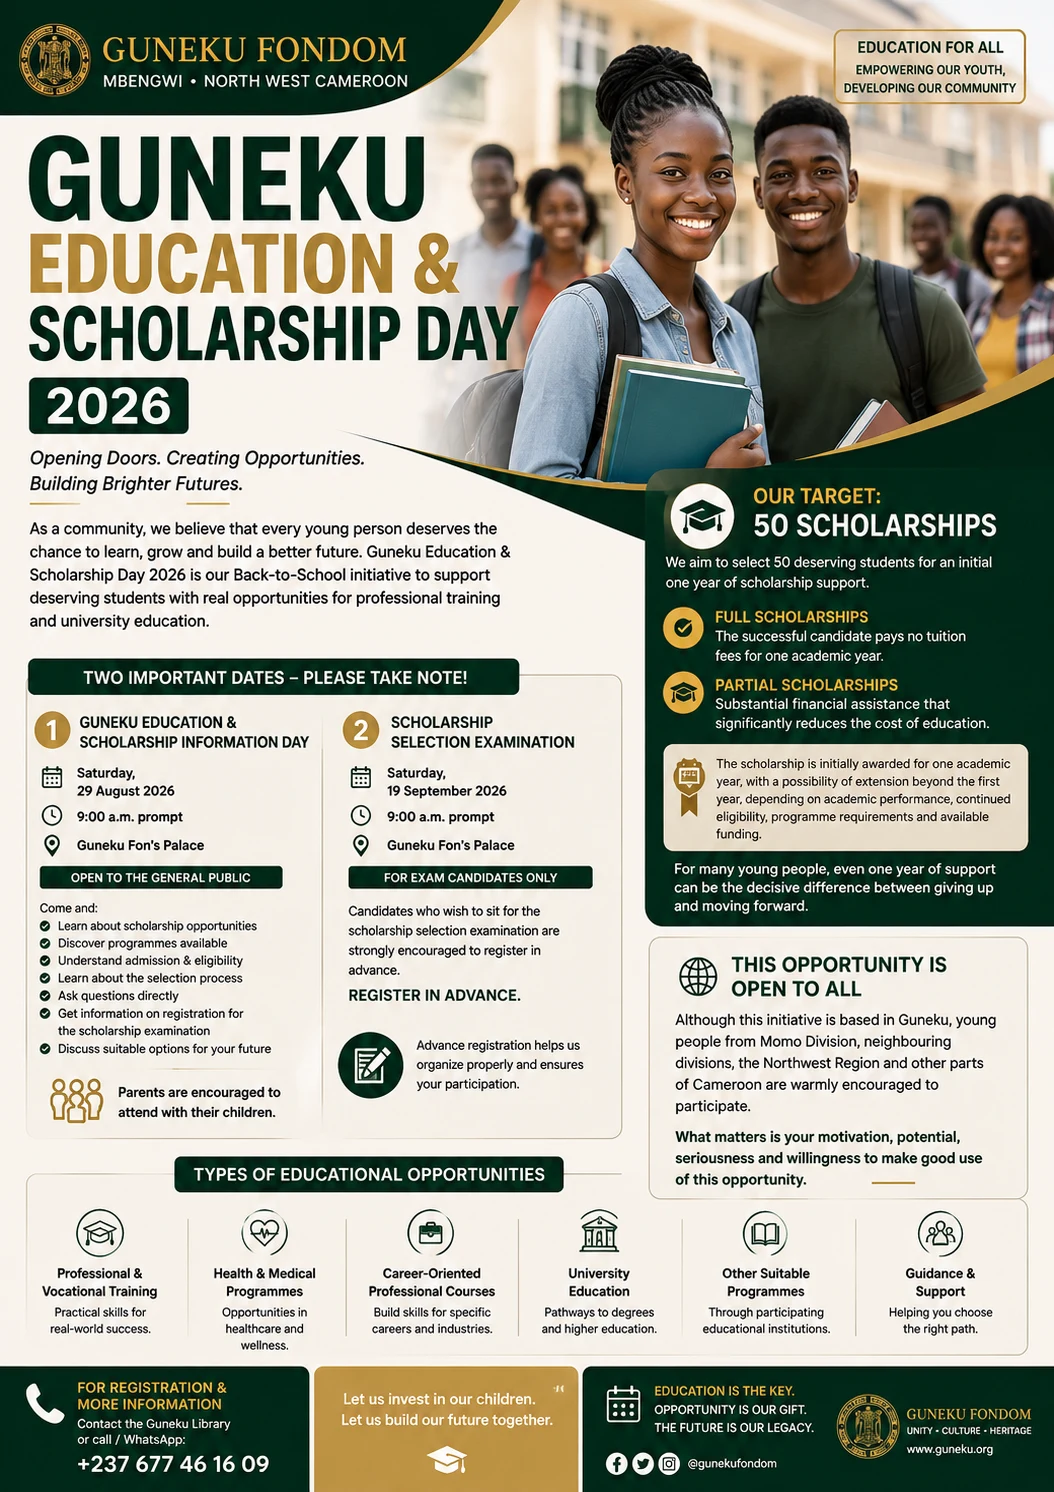
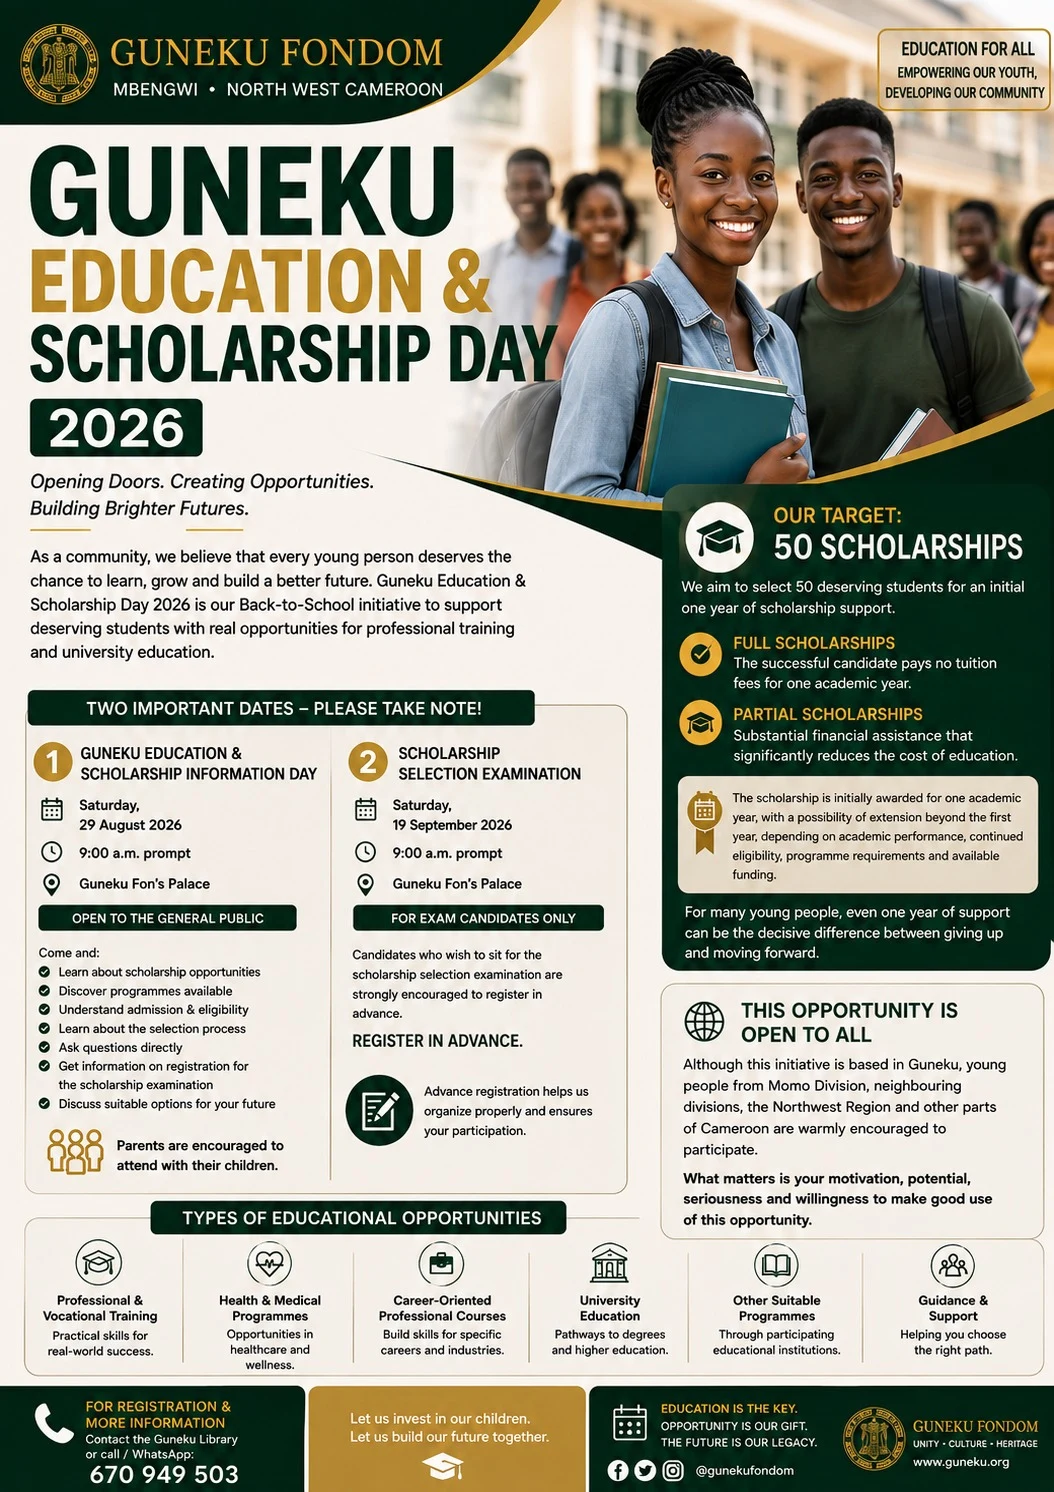
Swap in the corrected scholarship flyer; feature it on the front page
The new flyer prints the authoritative Guneku Library number 670 949 503, so
the discrepancy carried since the first publication is resolved.

- public/images/education/guneku-scholarship-2026.jpg is the supplied file,
  byte-identical (MD5 15c61f50c8fd0e78cda09113fe058a30), 1054x1492.
- Delivery copies at the same pixels and the same 0.7064 aspect: a WebP for
  the programme page, a 600px WebP thumbnail for the front page, and a
  1200x630 Open Graph card letterboxed so nothing is cropped.
- The superseded artwork printing +237 677 46 16 09 is deleted from the
  repository and now 404s.

The flyer appears on the front page inside the existing scholarship card,
above the existing text, wrapped in a link through to /education with an
aria-label and full alt text. No new component, no styling change.

Also withdraws a contradiction of my own making: the notices list still
advertised "Phase 3 membership open - share price moves to 5,000 FCFA", which
is precisely the pricing withdrawn in the previous commit as unconfirmed. The
notice is removed rather than reworded into a guess, and the Agro CIG
development row now states plainly that the current share price is not
published pending confirmation by the Delegate.

Verified: tsc clean, no new lint errors, build passes, the flyer resolves on
both pages, the link target confirmed in the DOM, and the superseded number
appears nowhere.

Claude-Session: https://claude.ai/code/session_018FyebiaU4CnJEak38XTarP

diff --git a/src/app/page.tsx b/src/app/page.tsx
@@ -119,7 +119,19 @@ export default function HomePage() {
           </div>
 
           {/* Scholarship — institutional feature, not a banner */}
-          <aside className="inst-card self-start p-5">
+          <aside className="inst-card self-start overflow-hidden">
+            {/* Flyer — front page, clickable through to the full programme */}
+            <Link href="/education" className="block no-underline" aria-label="Guneku Education & Scholarship Day 2026 — see the full programme">
+              <Image
+                src={programme.flyer.thumb}
+                alt="Guneku Education & Scholarship Day 2026 flyer. Information Day Saturday 29 August 2026 and Scholarship Selection Examination Saturday 19 September 2026, both 9:00 a.m. at the Guneku Fon's Palace. Target of 50 scholarships, full and partial."
+                width={600}
+                height={849}
+                sizes="(max-width: 1024px) 100vw, 32vw"
+                className="h-auto w-full"
+              />
+            </Link>
+            <div className="p-5">
             <p className="inst-tag">Education · Current programme</p>
             <h3 className="inst-h2 mt-1.5">{programme.name}</h3>
             <p className="inst-body mt-2">
@@ -141,6 +153,7 @@ export default function HomePage() {
               <Link href="/education#video" className="inst-link inline-flex items-center gap-1.5">
                 <PlayCircle className="h-4 w-4" aria-hidden /> Watch video
               </Link>
+            </div>
             </div>
           </aside>
         </div>

diff --git a/src/app/education/page.tsx b/src/app/education/page.tsx
@@ -57,7 +57,7 @@ export default function EducationPage() {
 
           <figure className="m-0 mt-7">
             <a
-              href="/images/education/guneku-scholarship-2026.png"
+              href="/images/education/guneku-scholarship-2026.jpg"
               target="_blank"
               rel="noopener noreferrer"
               className="mx-auto block w-full max-w-[640px] border border-[var(--brass)]/25 bg-black/20"
